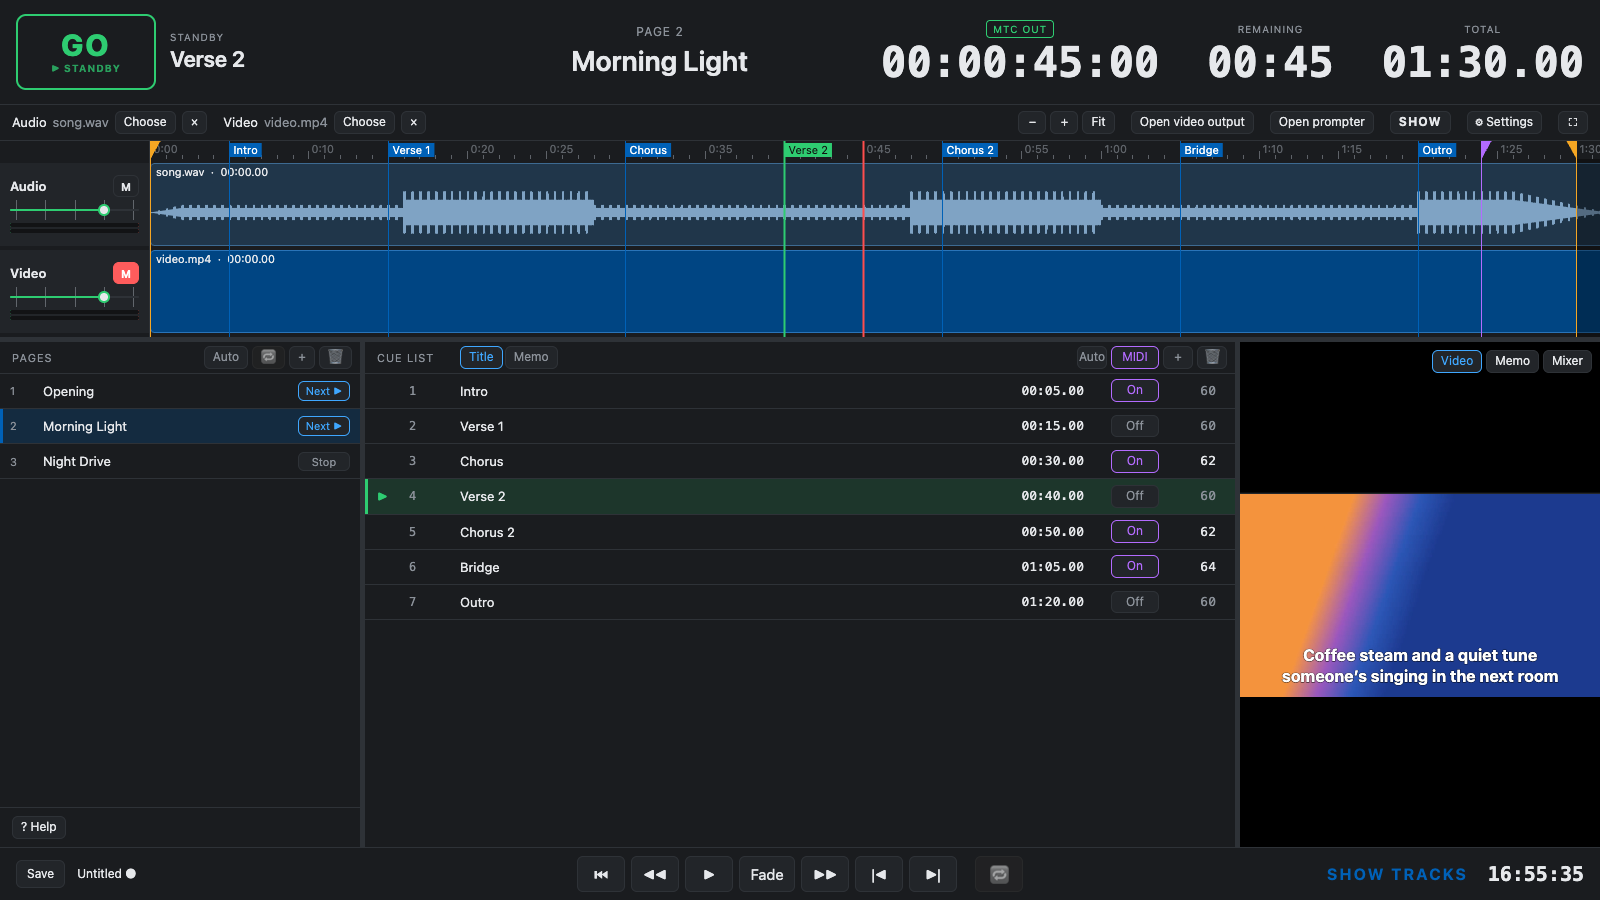
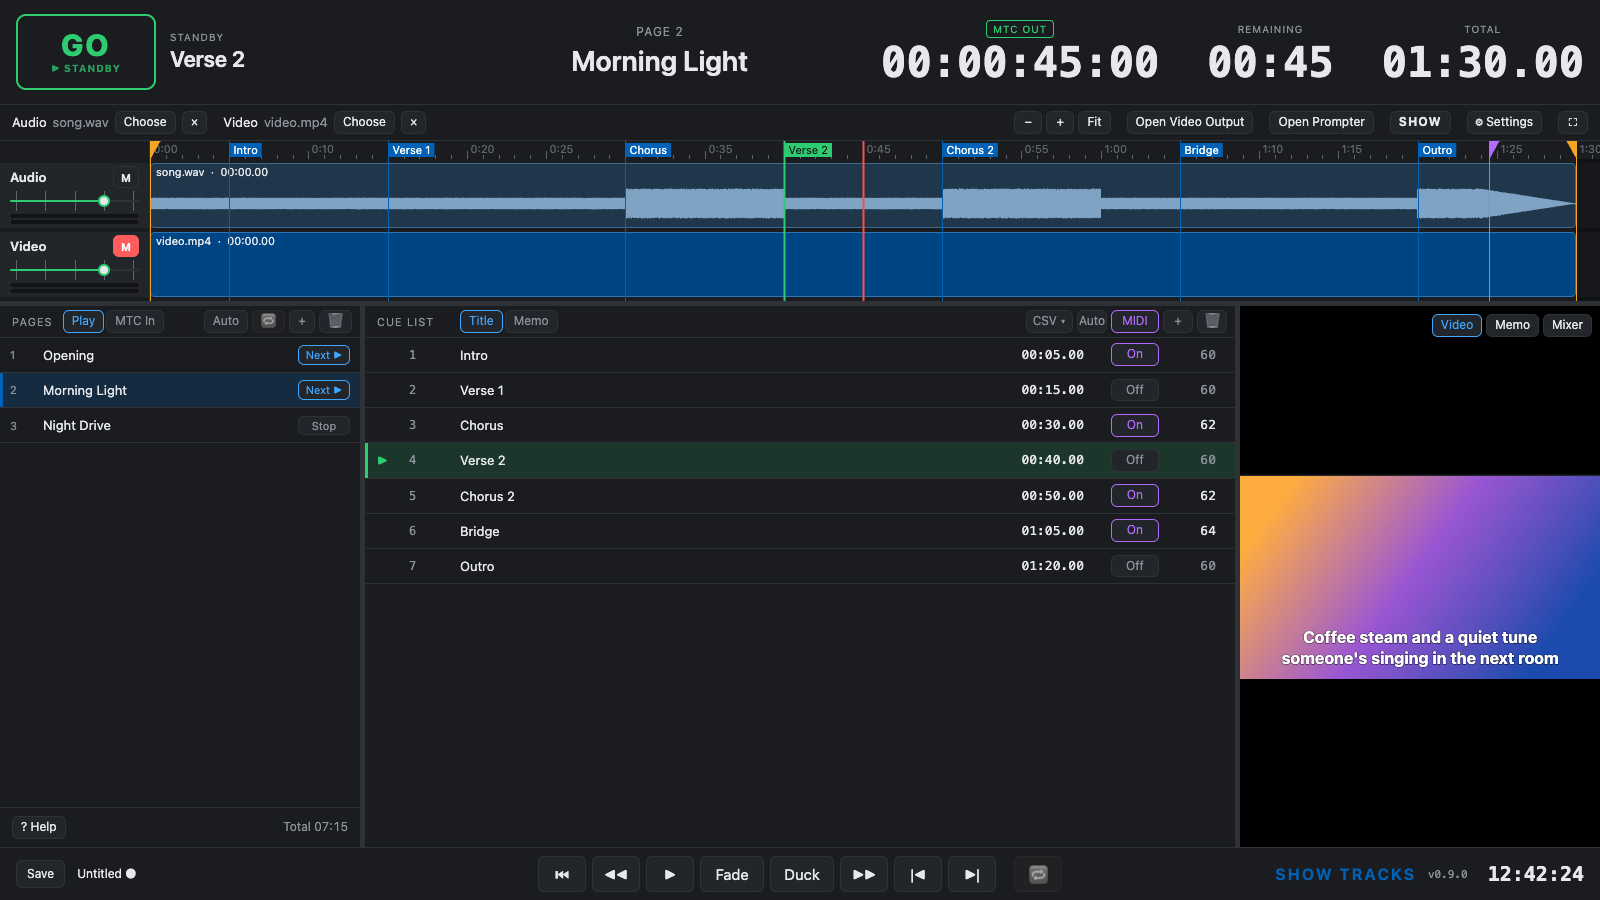
Retake the README screenshots, with a kit to retake them
scripts/screenshots holds the sample show (show.json), a script that makes
its audio and video (make-media.mjs, media not kept in the repo) and one that
sets it up in Chrome and takes main, memo and mixer (shoot.mjs). The new
shots show Duck, CSV ▾, the Play list total and the lower track.

diff --git a/scripts/screenshots/README.md b/scripts/screenshots/README.md
@@ -1,0 +1,15 @@
+# README screenshots
+
+Retakes `screenshots/main.png`, `memo.png` and `mixer.png` from a sample show, so they can be redone the same way after the screen changes.
+
+- `show.json`: the sample show — three pages, the cues of *Morning Light* with their lyrics, MIDI and the overlap mark.
+- `make-media.mjs`: makes the audio and video into `media/` (not kept in the repo). Needs ffmpeg.
+- `shoot.mjs`: opens the app in Chrome with the sample show, adds the media, puts the playhead at 0:45 with Verse 2 on standby, and takes the three screenshots. Uses Playwright (the project's, or a global install).
+
+```sh
+npm run dev                               # in another terminal
+node scripts/screenshots/make-media.mjs   # once
+node scripts/screenshots/shoot.mjs        # or pass another URL
+```
+
+To change what the screenshots show, edit `show.json` (it is a project, as the app stores it) or the steps in `shoot.mjs`.
